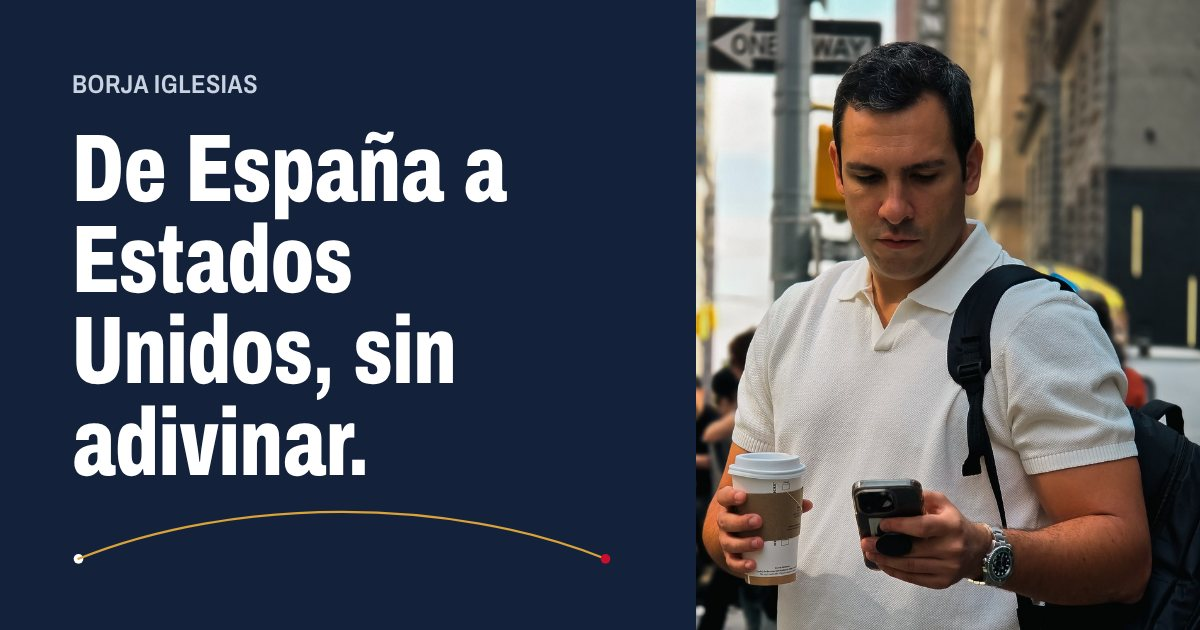
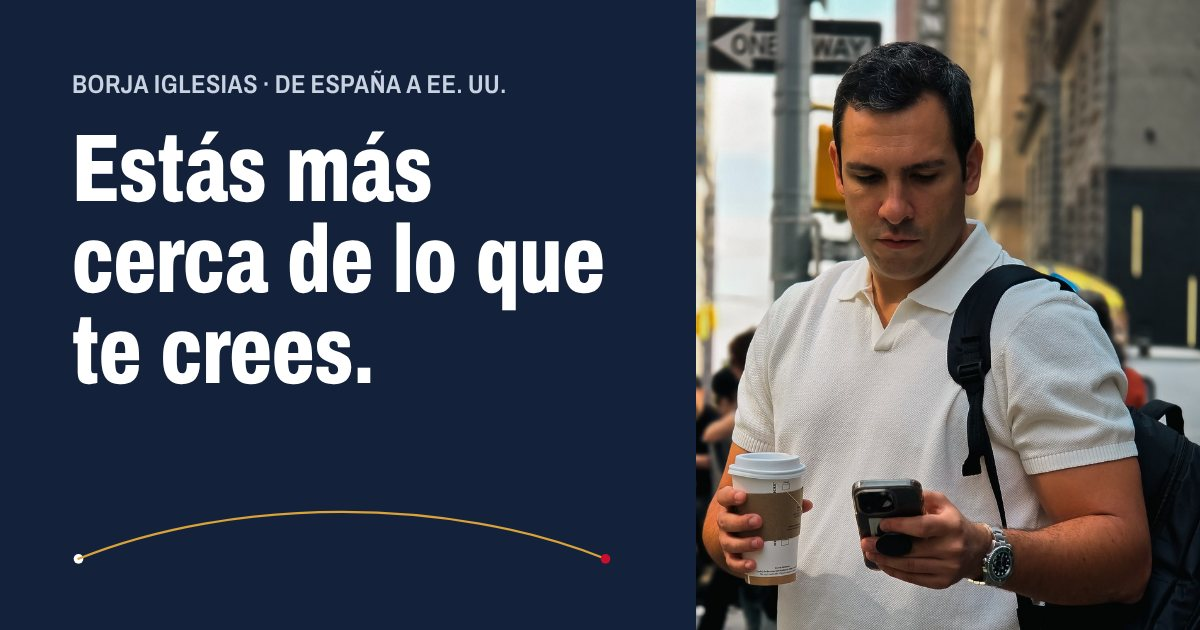
Toda la web en primera persona: nuevo titular, 9 años en Miami y llamada a contratar consultoría
Claude-Session: https://claude.ai/code/session_01PPCueHdcv7w5xyuaez4QiR

Changed region(s): [[0.0617, 0.2111, 0.5242, 0.754], [0.2158, 0.1206, 0.4317, 0.1508]]

diff --git a/index.html b/index.html
@@ -3,15 +3,15 @@
 <head>
 <meta charset="utf-8">
 <meta name="viewport" content="width=device-width,initial-scale=1">
-<title>Borja Iglesias · De España a Estados Unidos</title>
-<meta name="description" content="Empresario español en Miami. Guías gratuitas y sesiones 1 a 1 para vender en Estados Unidos desde España o Latinoamérica.">
+<title>Borja Iglesias · Te ayudo a vender en Estados Unidos</title>
+<meta name="description" content="Vivo en Miami desde hace 9 años y he montado más de 10 empresas. Te ayudo a vender en Estados Unidos desde España o Latinoamérica.">
 <link rel="canonical" href="https://borjaiglesiasjato.com/">
 <meta property="og:type" content="website">
 <meta property="og:locale" content="es_ES">
 <meta property="og:site_name" content="Borja Iglesias">
 <meta property="og:url" content="https://borjaiglesiasjato.com/">
-<meta property="og:title" content="Borja Iglesias · De España a Estados Unidos, sin adivinar">
-<meta property="og:description" content="Guías gratuitas y sesiones 1 a 1 para llevar tu negocio a Estados Unidos.">
+<meta property="og:title" content="Borja Iglesias · Estás más cerca de lo que te crees">
+<meta property="og:description" content="Mis guías gratuitas y consultorías 1 a 1 para llevar tu negocio a Estados Unidos.">
 <meta property="og:image" content="https://borjaiglesiasjato.com/img/og-home.jpg">
 <meta property="og:image:width" content="1200">
 <meta property="og:image:height" content="630">
@@ -27,18 +27,19 @@
 <body>
 <header class="wrap top">
   <a class="brand" href="/">Borja Iglesias</a>
-  <nav><a href="#guias">Guías</a><a href="#sesion">Sesión 1 a 1</a></nav>
+  <nav><a href="#guias">Guías</a><a href="#sesion">Consultoría</a></nav>
 </header>
 
 <main>
   <div class="wrap hero">
     <div class="hero-text">
-      <h1>De España a Estados Unidos, sin adivinar.</h1>
-      <p class="lede">Soy Borja, empresario español en Miami. Ayudo a empresas y profesionales de España y Latinoamérica a vender en Estados Unidos.</p>
-      <p class="origin">Empecé con un viaje de dos semanas para conocer clientes. Les vendí desde España y a los dos o tres meses ya facturaba. Me mudé después. Hoy vendo en más de 35 estados y he fundado más de diez empresas.</p>
+      <p class="kicker">De España a Estados Unidos</p>
+      <h1>Estás más cerca de lo que te crees.</h1>
+      <p class="lede">Soy Borja. Vivo en Miami desde hace 9 años y he montado más de 10 empresas. Ayudo a empresas y profesionales de España y Latinoamérica a vender aquí.</p>
+      <p class="origin">Yo empecé con un viaje de dos semanas para conocer clientes. Les vendí desde España y a los dos o tres meses ya facturaba. Me mudé después. Hoy vendo en más de 35 estados.</p>
       <div class="actions">
-        <a class="btn" href="#guias">Ver las guías gratuitas</a>
-        <a class="btn ghost" href="#sesion">Sesión 1 a 1</a>
+        <a class="btn" href="#guias">Leer mis guías gratis</a>
+        <a class="btn ghost" href="#sesion">Quiero una consultoría</a>
       </div>
     </div>
     <img class="portrait" src="/img/borja-640.jpg" srcset="/img/borja-640.jpg 640w, /img/borja-1000.jpg 1000w" sizes="(max-width: 820px) 100vw, 420px" width="640" height="800" alt="Borja Iglesias en la calle, con un café y el móvil">
@@ -55,8 +56,8 @@
 
   <section id="guias" class="mist">
     <div class="wrap">
-      <h2>Guías gratuitas</h2>
-      <p class="small intro">Cada guía acompaña a un vídeo de Instagram. Se leen en el móvil en cinco minutos.</p>
+      <h2>Mis guías gratuitas</h2>
+      <p class="small intro">Cada guía acompaña a uno de mis vídeos de Instagram. La lees en el móvil en cinco minutos.</p>
       <ul class="guides">
         <li><a href="/guia-estados-llc">
           <div><h3>Cómo montar tu empresa en Estados Unidos desde España</h3>
@@ -69,8 +70,9 @@
   <section id="sesion">
     <div class="wrap">
       <div class="session">
-        <h2>Sesión 1 a 1</h2>
-        <p>Vemos tu caso por videollamada y sales sabiendo qué hacer y en qué orden.</p>
+        <h2>Te ayudo a hacerlo realidad</h2>
+        <p>Contrata una consultoría conmigo. Vemos tu caso por videollamada y sales sabiendo qué hacer y en qué orden.</p>
+        <p>En pocos días puedes tener tu LLC y tu número fiscal. Los clientes llevan algo más: yo empecé a facturar a los dos o tres meses.</p>
         <ul class="plans">
           <li>
             <div><h3>Consultoría inicial · 30 min</h3>
@@ -80,7 +82,7 @@
           </li>
           <li>
             <div><h3>Consultoría en profundidad · 60 min</h3>
-            <p>Entramos al detalle de todo y salimos con una hoja de ruta completa para tu caso.</p></div>
+            <p>Entramos al detalle de todo y te llevas una hoja de ruta completa para tu caso.</p></div>
             <div class="buy"><b class="price">400&nbsp;$</b>
             <a class="btn" data-book="60" href="https://ig.me/m/borjaiglesiasjato">Reservar 60 min</a></div>
           </li>

diff --git a/guia-estados-llc.html b/guia-estados-llc.html
@@ -6,7 +6,7 @@
 <title>Cómo montar tu empresa en Estados Unidos desde España · Borja Iglesias</title>
 <meta name="description" content="Qué estado elegir, cuánto cuesta de verdad y los pasos para tener tu LLC operativa sin subirte a un avión.">
 <meta property="og:title" content="Cómo montar tu empresa en Estados Unidos desde España">
-<meta property="og:description" content="Guía gratuita de Borja Iglesias. Datos revisados en octubre de 2026.">
+<meta property="og:description" content="Mi guía gratuita, con datos revisados en octubre de 2026.">
 <link rel="canonical" href="https://borjaiglesiasjato.com/guia-estados-llc">
 <meta property="og:type" content="article">
 <meta property="og:locale" content="es_ES">
@@ -27,7 +27,7 @@
 <body>
 <header class="wrap top">
   <a class="brand" href="/">Borja Iglesias</a>
-  <nav><a href="/#guias">Guías</a><a href="/#sesion">Sesión 1 a 1</a></nav>
+  <nav><a href="/#guias">Guías</a><a href="/#sesion">Consultoría</a></nav>
 </header>
 
 <main class="wrap">
@@ -73,7 +73,7 @@
 
     <div class="mid-cta">
       <p>¿No tienes claro qué estado te conviene?</p>
-      <a href="/#sesion">Lo vemos en una sesión 1 a 1</a>
+      <a href="/#sesion">Lo vemos juntos en una consultoría</a>
     </div>
 
     <section id="llc">
@@ -164,9 +164,9 @@
 
     <div class="session end-cta">
       <h2>Cada caso es distinto</h2>
-      <p>Tu sector, dónde vives y a quién vendes cambian qué pasos dar y en qué orden. Si quieres, lo vemos juntos en una sesión 1 a 1 y te digo por dónde empezaría yo.</p>
+      <p>Tu sector, dónde vives y a quién vendes cambian qué pasos dar y en qué orden. Contrata una consultoría conmigo: vemos tu caso juntos y te digo por dónde empezaría yo.</p>
       <div class="actions">
-        <a class="btn" href="/#sesion">Reservar sesión 1 a 1</a>
+        <a class="btn" href="/#sesion">Quiero una consultoría</a>
         <a class="btn ghost" href="/guias/guia-montar-empresa-usa-desde-espana.pdf" download>Descargar en PDF</a>
       </div>
     </div>

diff --git a/404.html b/404.html
@@ -14,13 +14,13 @@
 <body>
 <header class="wrap top">
   <a class="brand" href="/">Borja Iglesias</a>
-  <nav><a href="/#guias">Guías</a><a href="/#sesion">Sesión 1 a 1</a></nav>
+  <nav><a href="/#guias">Guías</a><a href="/#sesion">Consultoría</a></nav>
 </header>
 <main class="wrap notfound">
   <h1>Esta página no existe.</h1>
-  <p>Puede que el enlace esté mal escrito o que la guía haya cambiado de dirección. Todas las guías están en la portada.</p>
+  <p>Puede que el enlace esté mal escrito o que la guía haya cambiado de dirección. Todas mis guías están en la portada.</p>
   <div class="actions">
-    <a class="btn" href="/#guias">Ver las guías gratuitas</a>
+    <a class="btn" href="/#guias">Leer mis guías gratis</a>
     <a class="btn ghost" href="https://ig.me/m/borjaiglesiasjato">Escríbeme por Instagram</a>
   </div>
 </main>

diff --git a/styles.css b/styles.css
@@ -149,3 +149,5 @@ td:first-child{font-weight:700;white-space:nowrap}
 .notfound{padding-top:40px;padding-bottom:60px}
 .notfound h1{font-weight:800;font-variation-settings:"wdth" 68;font-size:clamp(42px,8vw,84px);line-height:.98;margin:0 0 18px;max-width:14ch}
 .notfound p{max-width:46ch;color:var(--ink-2);margin:0 0 24px}
+
+.kicker{margin:0 0 14px;font-weight:700;font-variation-settings:"wdth" 80;font-size:15px;letter-spacing:.06em;text-transform:uppercase;color:var(--ink-2)}
